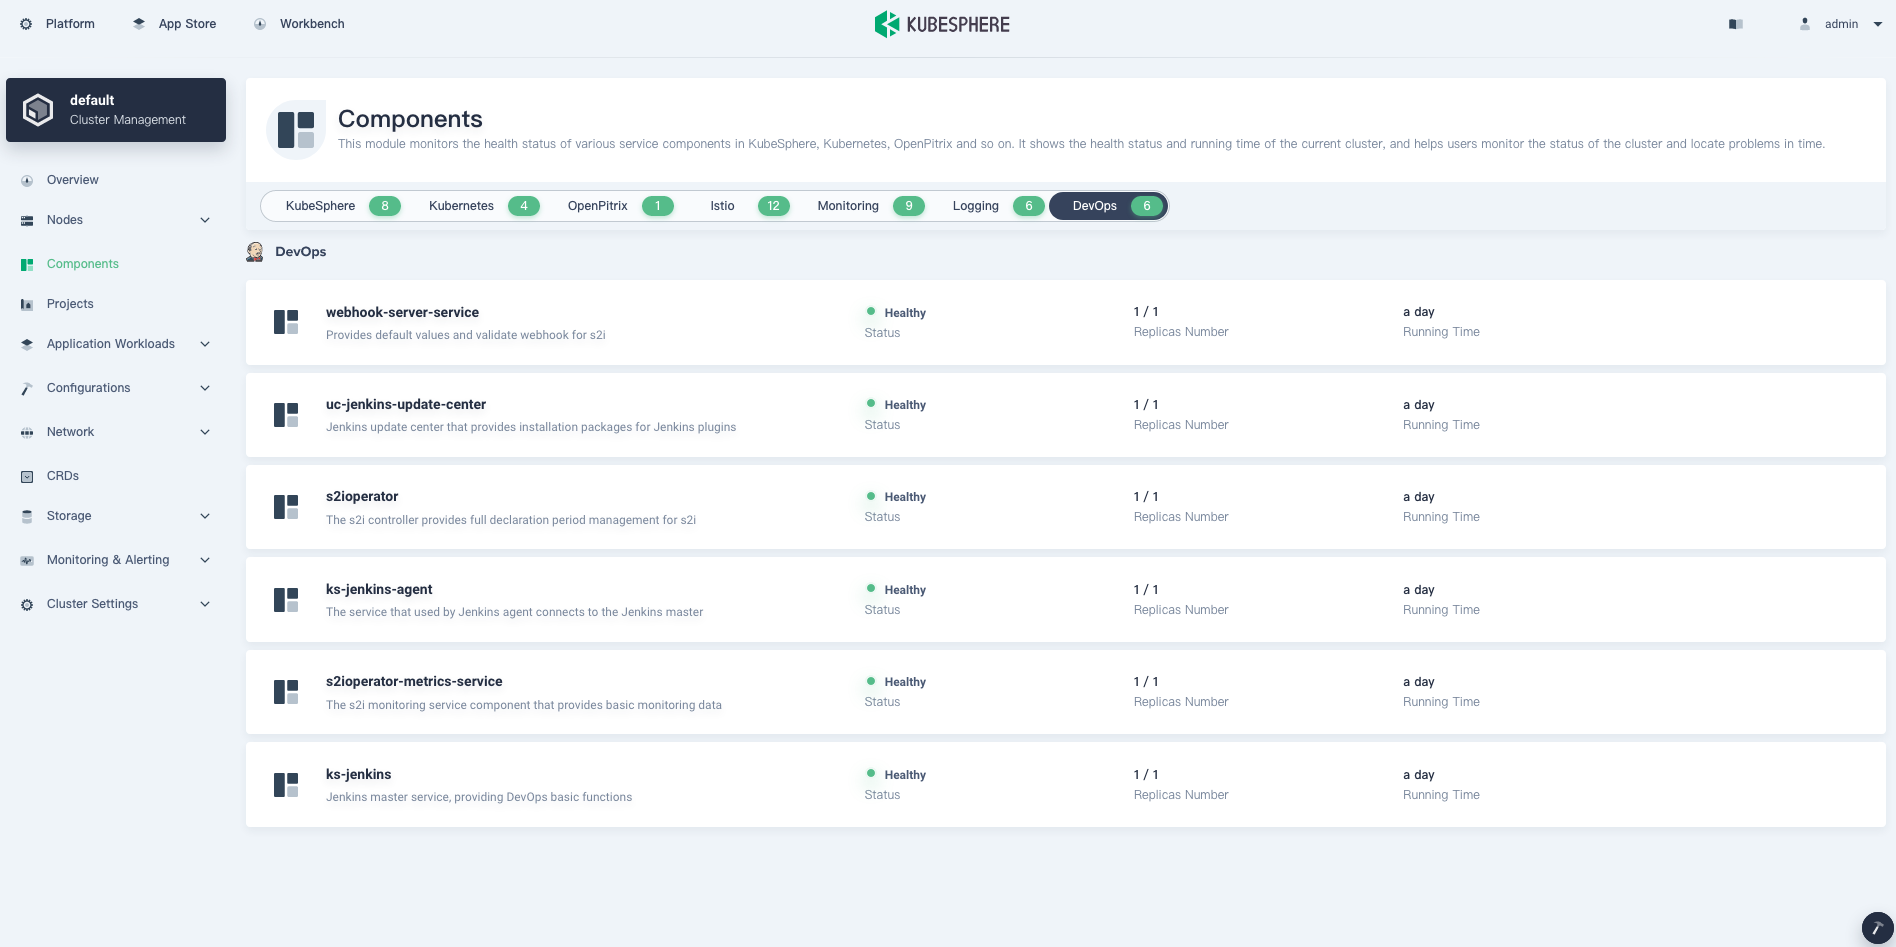
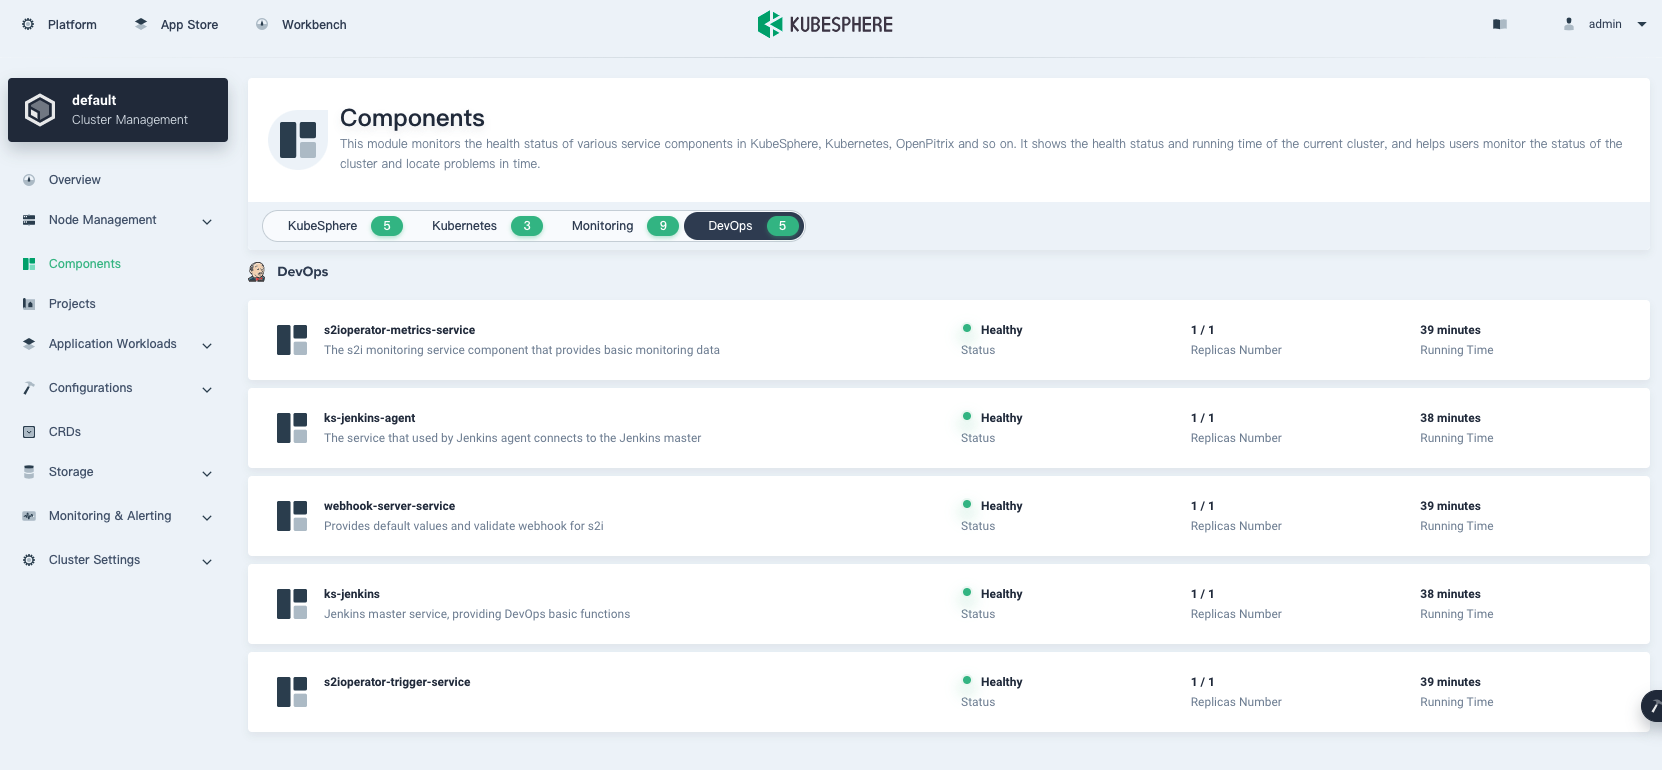
Update enable DevOps guide

diff --git a/content/en/docs/pluggable-components/devops.md b/content/en/docs/pluggable-components/devops.md
@@ -127,10 +127,9 @@ kubectl get pod -n kubesphere-devops-system
 The output may look as follows if the component runs successfully:
 
 ```bash
-NAME                                       READY   STATUS    RESTARTS   AGE
-ks-jenkins-68b8949bb-jcvkt                 1/1     Running   0          1h3m
-s2ioperator-0                              1/1     Running   1          1h3m
-uc-jenkins-update-center-8c898f44f-hqv78   1/1     Running   0          1h14m
+NAME                          READY   STATUS    RESTARTS   AGE
+ks-jenkins-5cbbfbb975-hjnll   1/1     Running   0          40m
+s2ioperator-0                 1/1     Running   0          41m
 ```
 
 {{</ tab >}}
